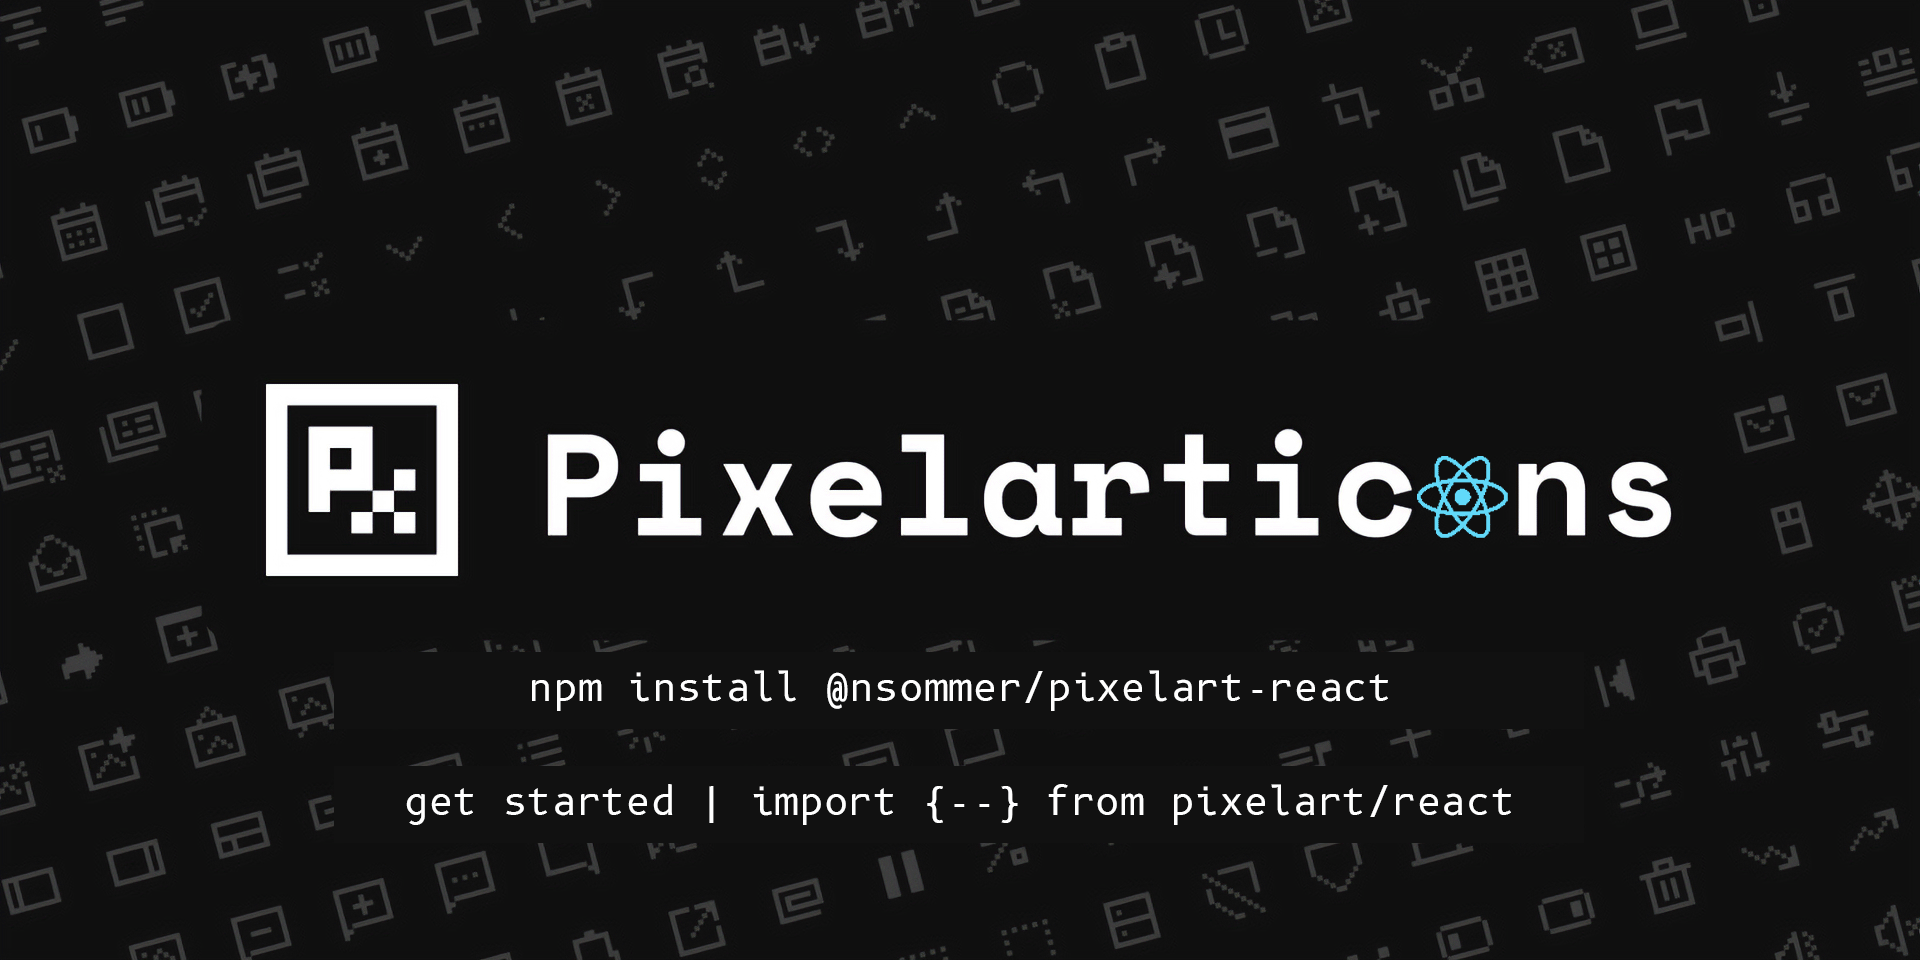
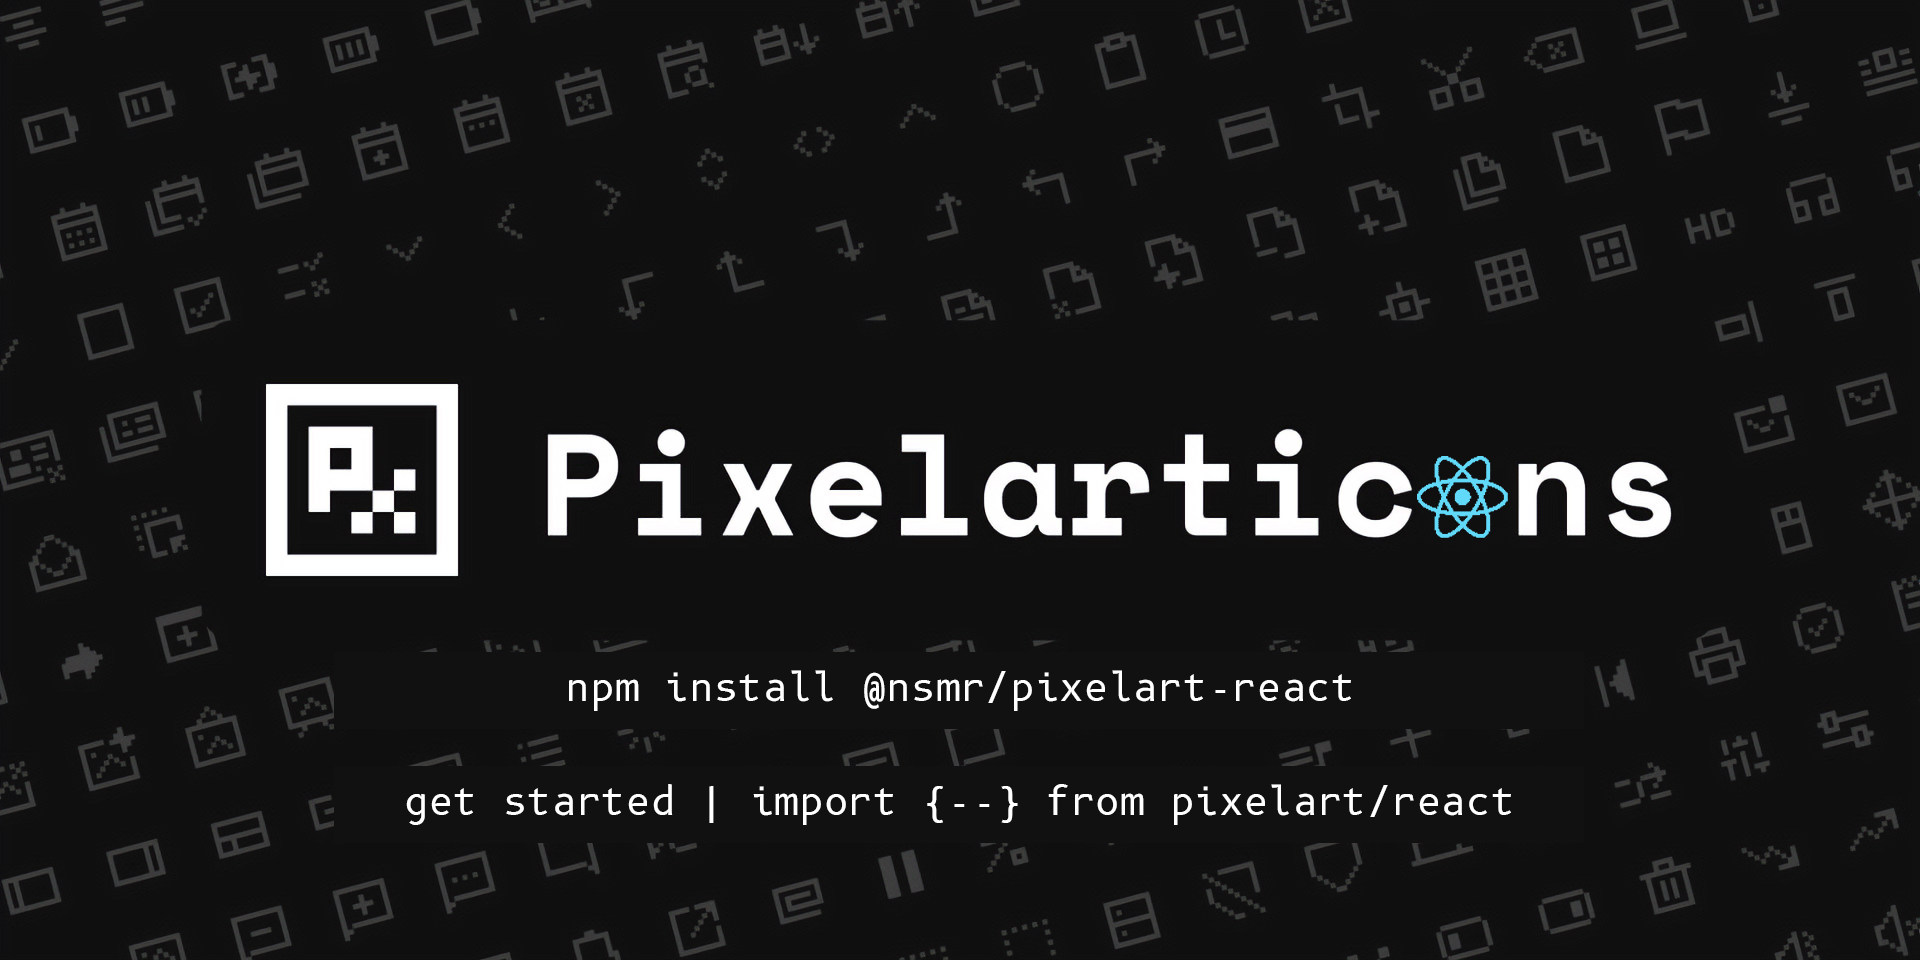
Update package to @nsmr/pixelart-react and improve gallery

Changed region(s): [[0.2812, 0.6875, 0.7188, 0.75]]

diff --git a/scripts/generate-gallery.js b/scripts/generate-gallery.js
@@ -1,69 +1,99 @@
-// Script to generate an icon gallery image for the README
-// Run with: node scripts/generate-gallery.js
+// Script to generate icon gallery image for README
+const puppeteer = require('puppeteer');
+const path = require('path');
+const fs = require('fs');
 
-import puppeteer from 'puppeteer';
-import path from 'path';
-import fs from 'fs';
-import { fileURLToPath } from 'url';
+(async () => {
+  console.log('Generating gallery image...');
+  
+  // Make sure the gallery HTML file exists
+  const galleryPath = path.resolve(__dirname, '../examples/gallery-generator.html');
+  if (!fs.existsSync(galleryPath)) {
+    console.error('Gallery HTML file not found:', galleryPath);
+    process.exit(1);
+  }
 
-// Get the directory name in ESM
-const __filename = fileURLToPath(import.meta.url);
-const __dirname = path.dirname(__filename);
-
-async function generateGalleryImage() {
-  console.log('Launching browser...');
+  // Launch browser
   const browser = await puppeteer.launch({
-    headless: 'new', // Use new headless mode
+    headless: 'new',
     args: ['--no-sandbox', '--disable-setuid-sandbox']
   });
-
+  
   try {
     const page = await browser.newPage();
     
-    // Set viewport to a reasonable size
-    await page.setViewport({
-      width: 1200,
-      height: 800,
-      deviceScaleFactor: 2, // Higher resolution image
-    });
-
-    const htmlPath = path.resolve(__dirname, '../examples/gallery-generator.html');
-    const fileUrl = `file://${htmlPath}`;
-    
-    console.log(`Opening gallery page: ${fileUrl}`);
+    // Go to gallery page
+    const fileUrl = `file://${galleryPath}`;
     await page.goto(fileUrl, { waitUntil: 'networkidle0' });
     
-    // Make sure the DOM is fully loaded
-    await page.waitForSelector('.gallery');
-    
-    // Give additional time for all visual elements to render
+    // Allow time for all SVGs to load
     await page.waitForTimeout(1000);
     
-    // Find the gallery element and get its dimensions
-    const galleryElement = await page.$('.gallery');
-    const boundingBox = await galleryElement.boundingBox();
+    // Take screenshot of gallery area
+    const gallery = await page.$('#gallery');
+    if (!gallery) {
+      throw new Error('Gallery element not found on page');
+    }
     
     const outputPath = path.resolve(__dirname, '../examples/icon-gallery.png');
-    console.log(`Taking screenshot and saving to: ${outputPath}`);
     
-    // Take screenshot of just the gallery area
-    await page.screenshot({
-      path: outputPath,
-      clip: {
-        x: boundingBox.x,
-        y: boundingBox.y - 100, // Include the header
-        width: boundingBox.width,
-        height: boundingBox.height + 150 // Add some padding
+    // Get the first 6 rows of icons
+    await page.evaluate(() => {
+      // Calculate row height based on first icon
+      const iconItem = document.querySelector('.icon-item');
+      if (!iconItem) return;
+      
+      const itemHeight = iconItem.offsetHeight;
+      const containerWidth = document.getElementById('gallery').offsetWidth;
+      const rowSize = Math.floor(containerWidth / (iconItem.offsetWidth + 20)); // 20px is the gap
+      
+      // Show limited number of rows for the image
+      const showItems = rowSize * 6; // Show 6 rows
+      
+      // Update subtitle
+      const subtitle = document.querySelector('.subtitle');
+      if (subtitle) {
+        subtitle.textContent = 'A collection of 486 pixel-perfect icons for React';
+      }
+
+      // Hide icons beyond the first 6 rows
+      const items = document.querySelectorAll('.icon-item');
+      if (items.length > showItems) {
+        for (let i = showItems; i < items.length; i++) {
+          items[i].style.display = 'none';
+        }
       }
     });
     
-    console.log('Gallery image created successfully!');
+    // Take a screenshot with appropriate padding
+    await page.evaluate(() => {
+      const gallery = document.getElementById('gallery');
+      const header = document.querySelector('.header');
+      if (gallery && header) {
+        // Add padding and margin for better appearance
+        document.body.style.padding = '40px';
+        gallery.style.marginBottom = '40px';
+      }
+    });
+    
+    // Take full page screenshot
+    await page.screenshot({
+      path: outputPath,
+      fullPage: false,
+      clip: {
+        x: 0,
+        y: 0,
+        width: 1000,
+        height: 550
+      }
+    });
+
+    console.log(`Gallery image generated: ${outputPath}`);
+    
   } catch (error) {
     console.error('Error generating gallery image:', error);
     process.exit(1);
   } finally {
     await browser.close();
   }
-}
-
-generateGalleryImage();
+})();

diff --git a/temp-old-package/index.js b/temp-old-package/index.js
@@ -1,0 +1,8 @@
+// This package has been renamed to @nsmr/pixelart-react
+console.warn(
+  '\n⚠  [DEPRECATED] @nicholuassommer/pixelarticons-react has been renamed to @nsmr/pixelart-react.\n' +
+  'Please update your imports to use the new package name.\n' +
+  'e.g., `import { Icon } from "@nsmr/pixelart-react"`\n'
+);
+
+module.exports = require('@nsmr/pixelart-react');

diff --git a/temp-old-package/index.d.ts b/temp-old-package/index.d.ts
@@ -1,0 +1,3 @@
+// This package has been renamed to @nsmr/pixelart-react
+// Re-export everything from the new package
+export * from '@nsmr/pixelart-react';

diff --git a/README.md b/README.md
@@ -14,13 +14,12 @@ React components for [pixelarticons](https://github.com/halfmage/pixelarticons).
 
 ## 🚨 Version 2.0.0 Migration Guide 🚨
 
-The package has been renamed from `@nicholuassommer/pixelarticons-react` to `@nsommer/pixelart-react` for simplicity.
+The package includes several improvements in version 2.0.0:
 
-This is a fork of the original (and amazing) package from halfmage.
--Please visit https://github.com/halfmage/pixelarticons for the original repo.
--Also consider purchasing the extended Icon pack @ https://pixelarticons.com/
-
-Actively monitored and maintained by [nicholuassommer](https://github.com/nicholuassommer).
+- Interactive gallery with all 486 icons
+- Improved documentation
+- Better React component support
+- Enhanced build process
 
 ### Migration Steps:
 
@@ -28,7 +27,7 @@ Actively monitored and maintained by [nicholuassommer](https://github.com/nichol
 
 ```diff
 - "@nicholuassommer/pixelarticons-react": "^1.0.1"
-+ "@nsommer/pixelart-react": "^2.0.0"
++ "@nsmr/pixelart-react": "^2.0.0"
 ```
 
 2. Update your imports:
@@ -43,7 +42,7 @@ import { User, Heart } from "@nicholuassommer/pixelarticons-react";
 
 ```jsx
 // Option 1: Direct from package (similar to before)
-import { User, Heart } from "@nsommer/pixelart-react";
+import { User, Heart } from "@nsmr/pixelart-react";
 
 // Option 2: New shorter path
 import { User, Heart } from "pixelart/react";
@@ -52,7 +51,7 @@ import { User, Heart } from "pixelart/react";
 ## Installation
 
 ```bash
-npm install @nsommer/pixelart-react
+npm install @nsmr/pixelart-react
 ```
 
 ## Usage

diff --git a/temp-old-package/README.md b/temp-old-package/README.md
@@ -1,0 +1,23 @@
+# DEPRECATED
+
+This package has been renamed to [`@nsmr/pixelart-react`](https://www.npmjs.com/package/@nsmr/pixelart-react).
+
+## Migration
+
+Update your package.json:
+
+```diff
+- "@nicholuassommer/pixelarticons-react": "^1.0.1"
++ "@nsmr/pixelart-react": "^2.0.0"
+```
+
+Update your imports:
+
+```diff
+- import { PixelArtIcon } from '@nicholuassommer/pixelarticons-react'
++ import { PixelArtIcon } from '@nsmr/pixelart-react'
+```
+
+## Why the change?
+
+The new package name is shorter, more concise, and easier to remember. It also better reflects the focus on pixel art icons for React.
